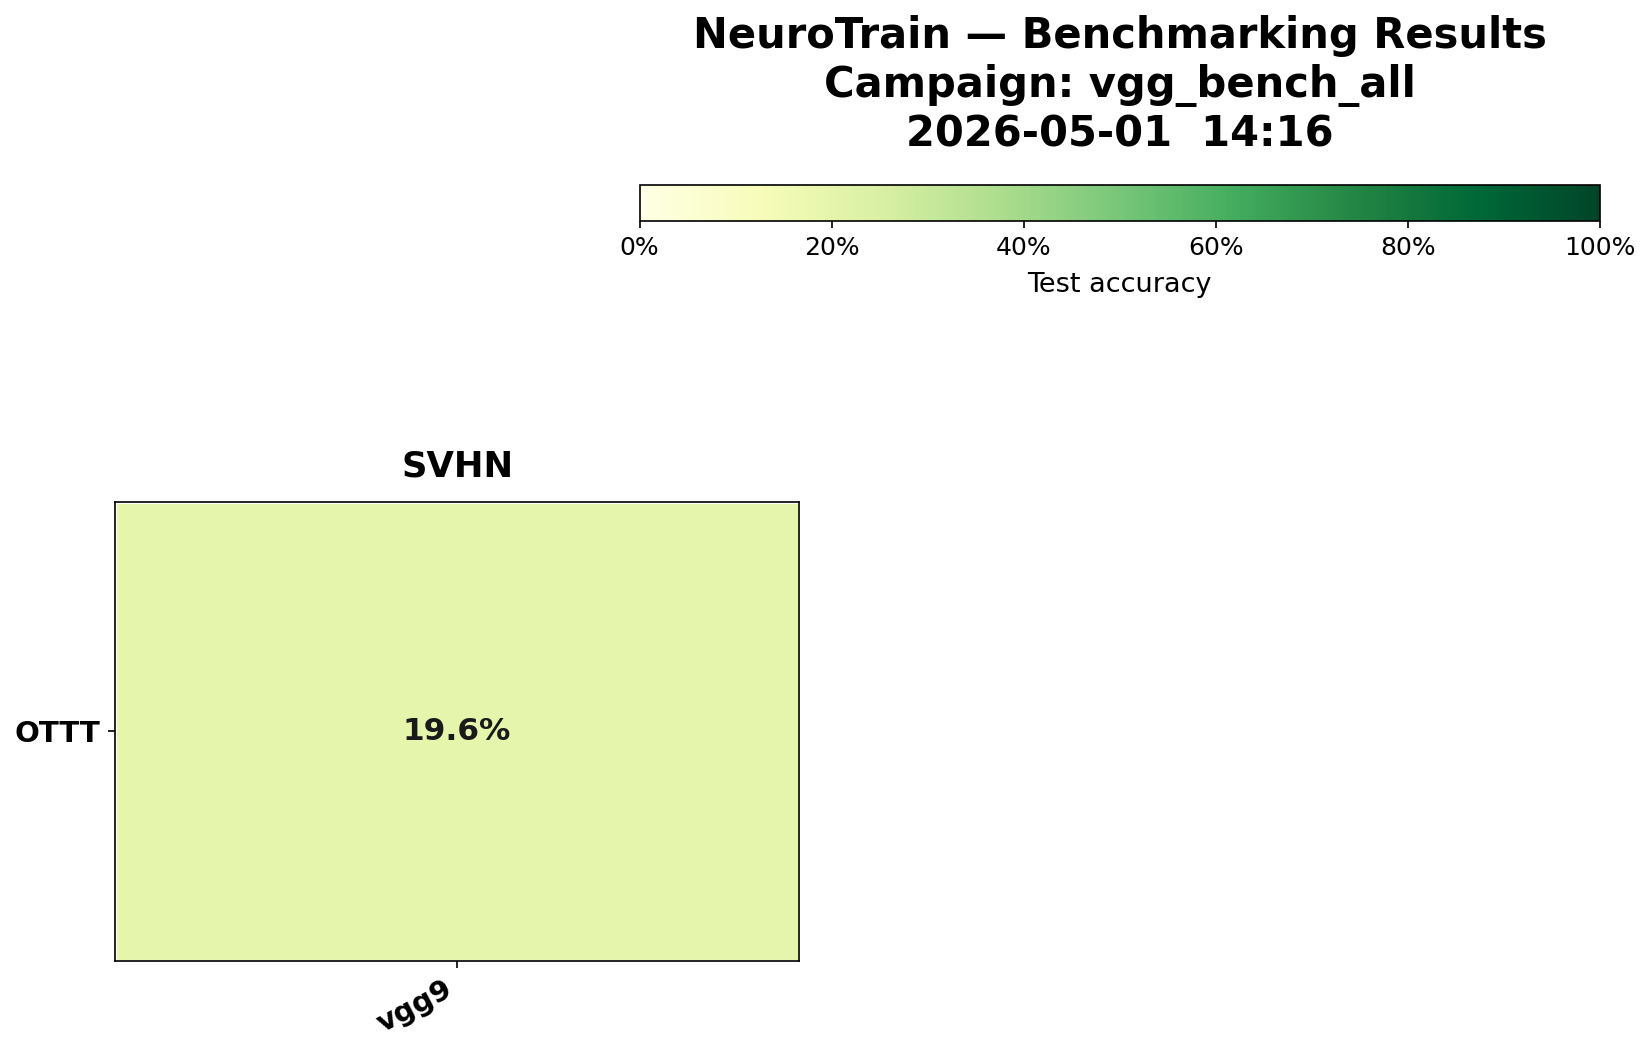
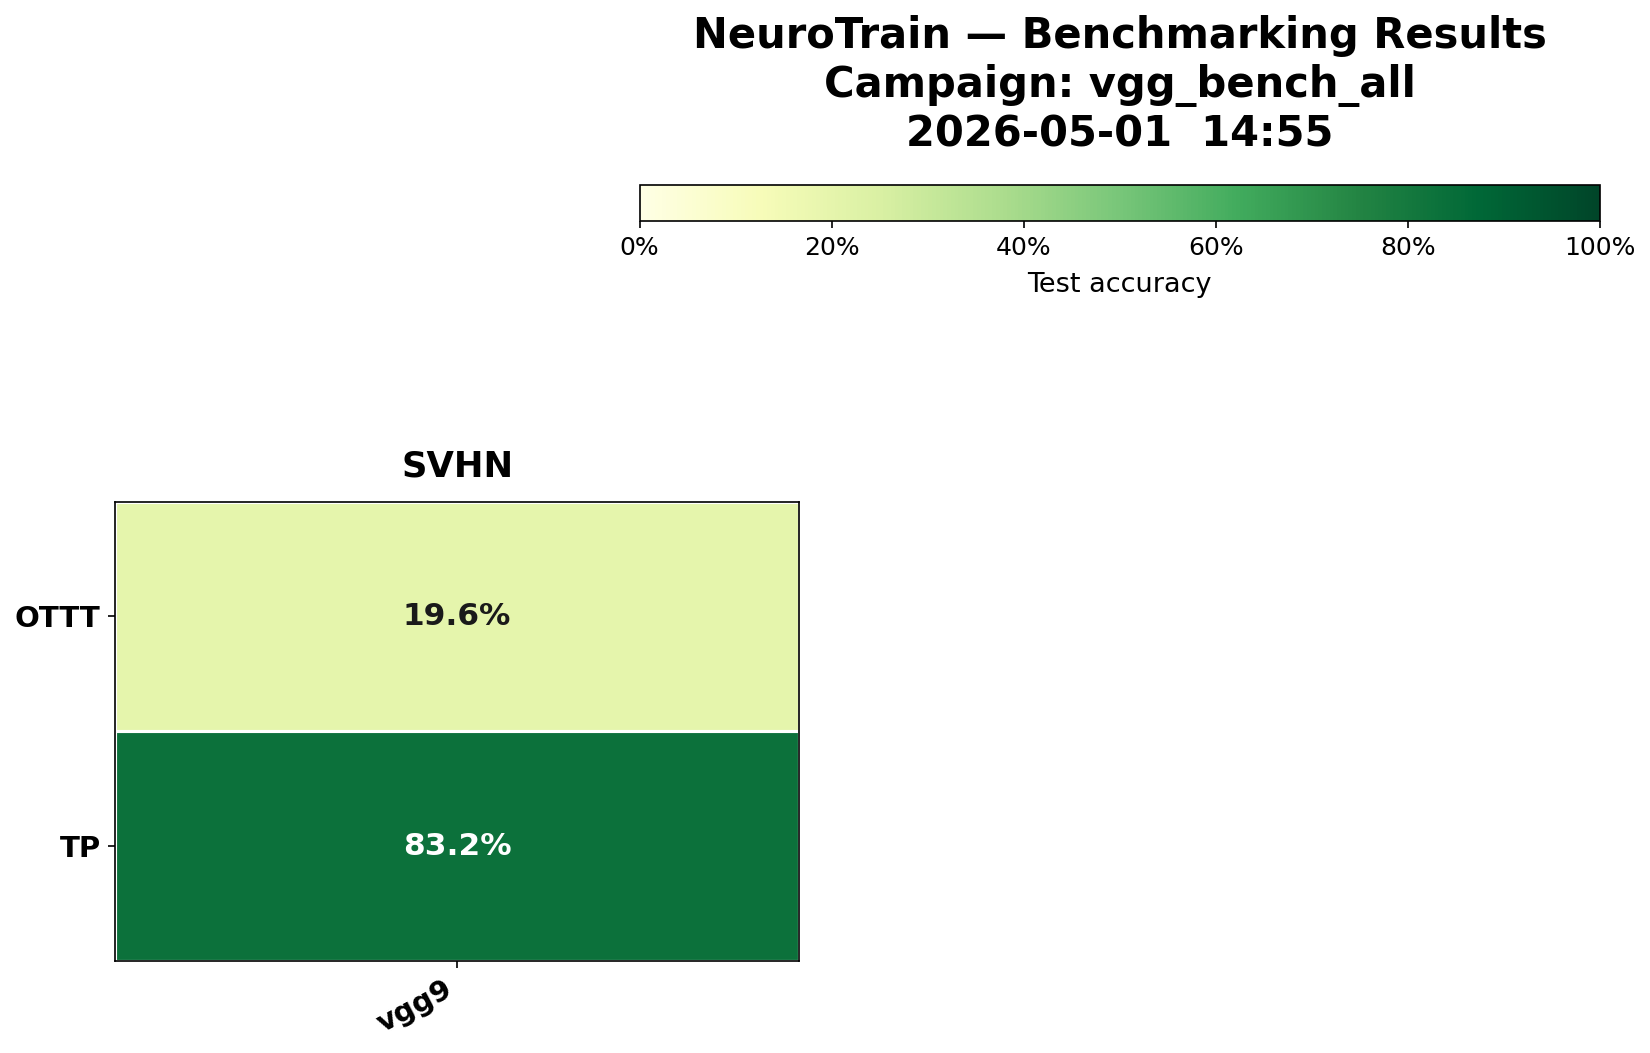
fixed standard benchmarking config, simplified readme and added datasets subtitles

diff --git a/src/generate_results.py b/src/generate_results.py
@@ -71,9 +71,9 @@ MODEL_DISPLAY = {
     "fc_snn":        "FC-SNN",
     "conv_snn":      "Conv-SNN",
     "r_snn":         "R-SNN",
-    "vgg9_cifar10":  "VGG9 (CIFAR-10)",
-    "vgg9_svhn":     "VGG9 (SVHN)",
-    "vgg9_dvsgest":  "VGG9 (DVSGesture)",
+    "vgg9_cifar10":  "VGG9",
+    "vgg9_svhn":     "VGG9",
+    "vgg9_dvsgest":  "VGG9",
 }
 
 DATASET_DISPLAY = {
@@ -85,6 +85,17 @@ DATASET_DISPLAY = {
     "dvsgesture":    "DVSGesture",
     "dvscifar10":    "DVS-CIFAR10",
     "shd":           "SHD",
+}
+
+DATASET_SUBTITLE = {
+    "mnist":         "Test accuracy, rate-coded input, 10 classes.",
+    "fashionmnist":  "Test accuracy, rate-coded input, 10 classes.",
+    "cifar10":       "Test accuracy, rate-coded input, 10 classes.",
+    "svhn":          "Test accuracy, rate-coded input, 10 classes.",
+    "nmnist":        "Test accuracy, event-based neuromorphic input, 10 classes.",
+    "dvsgesture":    "Test accuracy, event-based neuromorphic input, 11 gesture classes.",
+    "dvscifar10":    "Test accuracy, event-based neuromorphic input, 10 classes.",
+    "shd":           "Test accuracy, event-based neuromorphic input, 20 classes.",
 }
 
 def display_trainer(name: str) -> str:
@@ -166,7 +177,8 @@ def make_markdown_tables(df: pd.DataFrame) -> str:
         models   = sorted(sub["model"].unique())
 
         lines.append(f"### {display_dataset(dataset)}\n")
-        lines.append("*Test accuracy (mean ± std where multiple seeds available).*\n")
+        subtitle = DATASET_SUBTITLE.get(dataset.lower(), "Test accuracy (mean ± std where multiple seeds available).")
+        lines.append(f"*{subtitle}*\n")
 
         model_labels = [display_model(m) for m in models]
         header = "| Algorithm | " + " | ".join(model_labels) + " |"

diff --git a/README.md b/README.md
@@ -5,17 +5,26 @@
 
 ![NeuroTrain framework overview — trainers, networks, and datasets are independently registered components wired at runtime; run_exp_campaign.py enumerates all valid combinations and aggregates results into per-dataset accuracy tables.](docs/figures/snn_framework.png)
 
-NeuroTrain is an open framework for implementing, comparing, and benchmarking SNN training algorithms under shared, controlled conditions. Trainers, networks, and datasets are fully decoupled — any combination can be benchmarked from a single config file. Hyperparameter optimization via [Optuna](https://optuna.org) is built-in: mark any parameter as tunable directly in YAML and set `opt: true` to run a study. This makes it possible to separate algorithmic contributions from experimental choices — something that is typically hard when algorithms live in heterogeneous, one-off codebases.
+NeuroTrain is an open framework for implementing, comparing, and benchmarking SNN training algorithms under shared, controlled conditions. Trainers, networks, and datasets are fully decoupled — any combination can be benchmarked from a single config file. Hyperparameter optimization via [Optuna](https://optuna.org) is built-in. This makes it possible to separate algorithmic contributions from experimental choices — something that is typically hard when algorithms live in heterogeneous, one-off codebases.
 
 NeuroTrain accompanies a survey paper providing a comprehensive taxonomy of SNN training algorithms — see the [paper](#citation) for background and the full algorithmic landscape.
 
 Built on **[snnTorch](https://github.com/jeshraghian/snntorch)** (≥ 0.7), **[Tonic](https://github.com/neuromorphs/tonic)** (≥ 1.0), and **[NeuroBench](https://github.com/NeuroBench/neurobench)**.
 
-> ![SMILIES logo](docs/figures/LOGO_WEB.png) &nbsp; Developed at the **SMILIES Research Group**, Dept. of Control and Computer Engineering, Politecnico di Torino. &nbsp;·&nbsp; [Website](https://www.smilies.polito.it/) &nbsp;·&nbsp; [LinkedIn](https://www.linkedin.com/company/smilies-polito) &nbsp;·&nbsp; [𝕏](https://x.com/smiliespolito)
 
 > <a name="citation"></a>**If you use NeuroTrain in your research, please cite:**
 >
 > Caviglia, A., Marostica, F., Bardini, R., Savino, A., & Di Carlo, S. (2026). *NeuroTrain: surveying Local Learning Rules for Spiking Neural Networks with an Open Benchmarking Framework*. arXiv preprint. https://arxiv.org/abs/PLACEHOLDER
+
+
+<p align="center">
+  <img src="docs/figures/LOGO_WEB.png" alt="SMILIES logo" height="40"/>
+  <br/>
+  Developed at the <strong>SMILIES Research Group</strong>, Dept. of Control and Computer Engineering, Politecnico di Torino.
+  <br/>
+  <a href="https://www.smilies.polito.it/">Website</a> · <a href="https://www.linkedin.com/company/smilies-polito">LinkedIn</a> · <a href="https://x.com/smiliespolito">𝕏</a>
+</p>
+
 
 ## Quickstart
 
@@ -35,38 +44,30 @@ make paper
 ```
 
 ---
-
 ## Contents
 
-- [SNN Training Algorithms Benchmarking Results](#snn-training-algorithms-benchmarking-results)
-- [Benchmark Your SNN Training Algorithm](#benchmark-your-snn-training-algorithm)
+- [Quickstart](#quickstart)
+- [Benchmark Your Algorithm](#benchmark-your-snn-training-algorithm)
 - [Run Custom Experiments](#run-custom-experiments)
-- [Under the Hood — How NeuroTrain Works](#under-the-hood--how-neurotrain-works)
-  - [Design Principles](#design-principles)
-  - [Repository Structure](#repository-structure)
-  - [Configuration System](#configuration-system)
-  - [NeuroBench Evaluation](#neurobench-evaluation)
-  - [Output Structure and Results Generation](#output-structure-and-results-generation)
-  - [Visualising HPO Results](#visualising-hpo-results)
-  - [Singularity / Apptainer](#singularity--apptainer)
-  - [Dependencies](#dependencies)
-- [Reproduce the Paper Benchmarking Results](#reproduce-the-paper-benchmarking-results)
-- [Development Status](#development-status)
-  - [Implemented Algorithms](#implemented-algorithms)
-  - [Networks and Datasets](#networks-and-datasets)
-  - [Validated Integration Results](#validated-integration-results)
-  - [Testing](#testing)
-  - [HPC / SLURM](#hpc--slurm)
-  - [Trainer Notes](#trainer-notes)
-- [License](#license)
+- [How NeuroTrain Works](#under-the-hood--how-neurotrain-works)
+- [Reproduce Paper Results](#reproduce-the-paper-benchmarking-results)
 
----
+<details>
+<summary>Advanced / Development</summary>
 
-# SNN Training Algorithms Benchmarking Results
+- [Configuration System](#configuration-system)
+- [NeuroBench Evaluation](#neurobench-evaluation)
+- [Output Structure and Results Generation](#output-structure-and-results-generation)
+- [Visualising HPO Results](#visualising-hpo-results)
+- [Singularity / Apptainer](#singularity--apptainer)
+- [Dependencies](#dependencies)
+- [Implemented Algorithms](#implemented-algorithms)
+- [Networks and Datasets](#networks-and-datasets)
+- [HPC / SLURM](#hpc--slurm)
+- [Trainer Notes](#trainer-notes)
+- [Testing](#testing)
 
-*Last updated: PLACEHOLDER DATE — updated with each major release. Full per-dataset tables and reproduction instructions: [Reproduce the Paper Benchmarking Results](#reproduce-the-paper-benchmarking-results).*
-
-![NeuroTrain benchmarking results — test accuracy heatmap, algorithms (rows) × dataset–architecture combinations (cols), colour-coded from low (light) to high (dark). Generated by scripts/generate_results.py from experiments/paper/summary.csv.](docs/figures/results_heatmap.png)
+</details>
 
 ---
 
@@ -370,51 +371,6 @@ experiments/<campaign>/
       study.db                 ← SQLite, open with optuna-dashboard
 ```
 
-### Generating results tables and heatmap
-
-`scripts/generate_results.py` reads `summary.csv` (or `summary.json`) from a campaign directory and produces:
-
-- **`results_tables.md`** — one Markdown accuracy table per dataset (trainer × model), with mean ± std where multiple seeds are available. Ready to paste into the README or a paper draft.
-- **`results_heatmap.png`** — one subplot per dataset, rows = trainers, columns = models, cells colour-coded by test accuracy, values annotated inline.
-- **`neurobench_table.md`** — NeuroBench metrics table across all experiments (with `--neurobench`).
-
-```bash
-# Basic: tables + heatmap
-python scripts/generate_results.py experiments/paper/
-
-# Include NeuroBench metrics table
-python scripts/generate_results.py experiments/paper/ --neurobench
-
-# Save outputs to a custom directory
-python scripts/generate_results.py experiments/paper/ --output docs/results/
-
-# Inject tables directly into README (between marker comments)
-python scripts/generate_results.py experiments/paper/ --readme README.md
-
-# Skip the heatmap (text tables only)
-python scripts/generate_results.py experiments/paper/ --no-heatmap
-```
-
-**Auto-injection into README:** the results tables in this file are bounded by HTML comment markers. Running the script with `--readme README.md` replaces the content between them automatically with the selected results:
-
-
-<!-- RESULTS_START -->
-
-*Results from campaign `vgg_bench_all`. Generated by `scripts/generate_results.py`.*
-
-![NeuroTrain benchmarking results — test accuracy heatmap, algorithms (rows) × architecture–dataset combinations (cols). Campaign: vgg_bench_all — 2026-05-01 14:16](docs/figures/campaign_results/vgg_bench_all_heatmap.png)
-*NeuroTrain — Benchmarking Results · Campaign: `vgg_bench_all` · 2026-05-01 14:16*
-
-### SVHN
-
-*Test accuracy (mean ± std where multiple seeds available).*
-
-| Algorithm | vgg9 |
-|---|---|
-| OTTT | 19.6% |
-
-<!-- RESULTS_END -->
-
 
 ### Visualising HPO Results
 
@@ -498,8 +454,15 @@ pip install -r requirements.txt
 **Requirements:** Python ≥ 3.9, CUDA optional (MPS and CPU supported via `device: auto`).
 
 ---
+# Benchmarking Results
 
-# Reproduce the Paper Benchmarking Results
+*Last updated: PLACEHOLDER DATE — updated with each major release. Full per-dataset tables and reproduction instructions: [Reproduce the Paper Benchmarking Results](#reproduce-the-paper-benchmarking-results).*
+
+![NeuroTrain benchmarking results — test accuracy heatmap, algorithms (rows) × dataset–architecture combinations (cols), colour-coded from low (light) to high (dark). Generated by scripts/generate_results.py from experiments/paper/summary.csv.](docs/figures/campaign_results/vgg_bench_all_heatmap.png)
+
+---
+
+## Reproduce Benchmarking Results
 
 Paper results are stored in `config/paper.yaml` — one named experiment per trainer × model × dataset combination, with HPO-optimised hyperparameters as plain scalar values.
 
@@ -515,85 +478,28 @@ python scripts/generate_results.py experiments/paper/ --neurobench --readme READ
 
 Each run logs the full config, seed, and git commit hash to `experiments/paper/<exp_name>/`, ensuring every result is traceable.
 
+*Results will be published here upon paper release. Tables and heatmap are auto-generated from campaign outputs — see [Reproduce the Paper Benchmarking Results](#reproduce-the-paper-benchmarking-results) to run them yourself.*
+
 <!-- RESULTS_START -->
 
-### MNIST
+*Results from campaign `vgg_bench_all`. Generated by `scripts/generate_results.py`.*
 
-*Test accuracy, rate-coded input, 10 classes.*
-
-| Algorithm | FC-SNN | Conv-SNN | R-SNN |
-|---|---|---|---|
-| BPTT | — | — | — |
-| OSTL | — | — | — |
-| E-prop | — | — | — |
-| ESD-RTRL | — | — | — |
-| ETLP | — | — | — |
-| STSF | — | — | — |
-| DRTP | — | — | — |
-| OTTT | — | — | — |
-
-### Fashion-MNIST
-
-*Test accuracy, rate-coded input, 10 classes.*
-
-| Algorithm | FC-SNN | Conv-SNN | R-SNN |
-|---|---|---|---|
-| BPTT | — | — | — |
-| OSTL | — | — | — |
-| E-prop | — | — | — |
-| ESD-RTRL | — | — | — |
-| ETLP | — | — | — |
-| STSF | — | — | — |
-| DRTP | — | — | — |
-| OTTT | — | — | — |
-
-### CIFAR-10
-
-*Test accuracy, rate-coded input, 10 classes.*
-
-| Algorithm | Conv-SNN | VGG9 | R-SNN |
-|---|---|---|---|
-| BPTT | — | — | — |
-| E-prop | — | — | — |
-| ESD-RTRL | — | — | — |
-| DRTP | — | — | — |
-| OTTT | — | — | — |
-| STOP | — | — | — |
+![NeuroTrain benchmarking results — test accuracy heatmap, algorithms (rows) × architecture–dataset combinations (cols). Campaign: vgg_bench_all — 2026-05-01 14:55](docs/figures/campaign_results/vgg_bench_all_heatmap.png)
+*NeuroTrain — Benchmarking Results · Campaign: `vgg_bench_all` · 2026-05-01 14:55*
 
 ### SVHN
 
 *Test accuracy, rate-coded input, 10 classes.*
 
-| Algorithm | Conv-SNN | VGG9 | R-SNN |
-|---|---|---|---|
-| BPTT | — | — | — |
-| E-prop | — | — | — |
-| ESD-RTRL | — | — | — |
-| OTTT | — | — | — |
+| Algorithm | vgg9 |
+|---|---|
+| OTTT | 19.6% |
+| TP | 83.2% |
 
-### N-MNIST
+<!-- RESULTS_END -->
 
-*Test accuracy, event-based neuromorphic input, 10 classes.*
+---
 
-| Algorithm | FC-SNN | R-SNN |
-|---|---|---|
-| BPTT | — | — |
-| OSTL | — | — |
-| OSTTP | — | — |
-| E-prop | — | — |
-| ESD-RTRL | — | — |
-| ETLP | — | — |
-| OTTT | — | — |
+# License
 
-### DVSGesture
-
-*Test accuracy, event-based neuromorphic input, 11 gesture classes.*
-
-| Algorithm | Conv-SNN | VGG9 | R-SNN |
-|---|---|---|---|
-| BPTT | — | — | — |
-| E-prop | — | — | — |
-| ESD-RTRL | — | — | — |
-| DECOLLE | — | — | — |
-| OTTT | — | — | — |
-
+*To be added.*